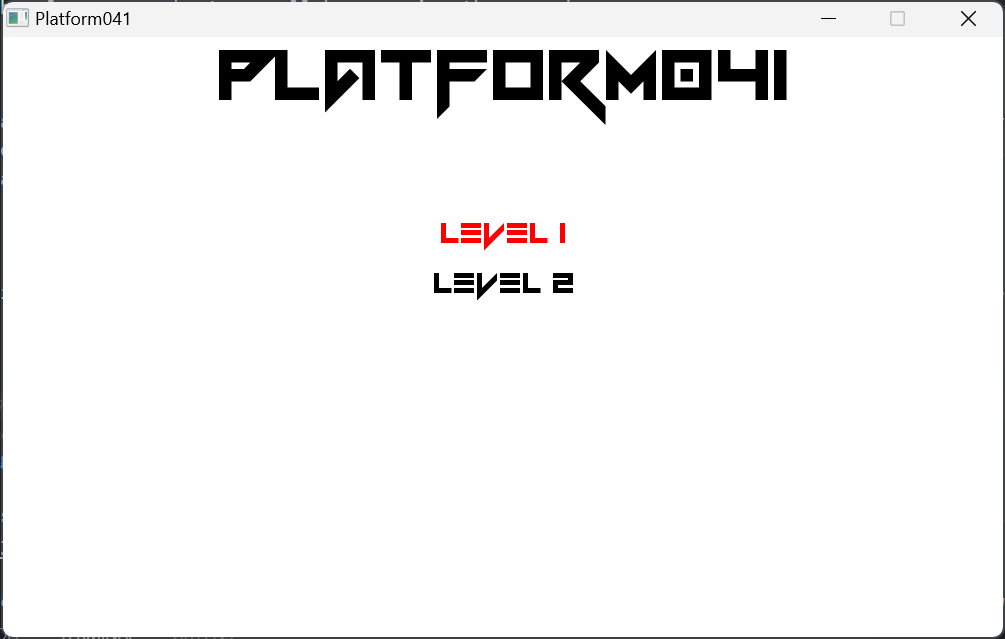
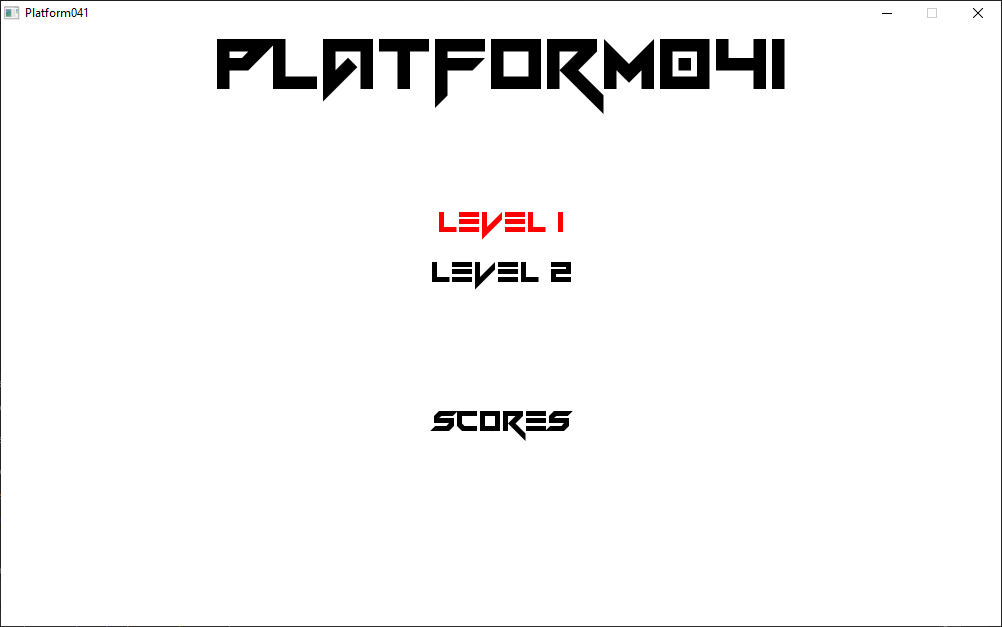
changed docs

diff --git a/src/Level.cpp b/src/Level.cpp
@@ -1,12 +1,12 @@
 #include "../headers/Level.hpp"
 
 void Level::die(sf::RenderWindow &window) {
-    score = 0;
-
     window.setView(sf::View(sf::Vector2f(0, Constants::get_window_height() / 2.0), sf::Vector2f(Constants::get_window_width(), Constants::get_window_height())));
 
     std::string displayText = "You lost! Score: " + std::to_string(score) + ", Time (s): " + std::to_string(levelClock.getElapsedTime().asSeconds());
     sf::Text text = createText(window, displayText, 50, 0, 300, sf::Color(210, 0, 0));
+
+    score = 0;
 
     sf::Clock clock;
 

diff --git a/docs/README.md b/docs/README.md
@@ -2,7 +2,7 @@
 
 ## User documentation
 
-At first, the user either has to build the app themselves or download the prebuilt executable. After that (see the source root README for build, if needed), the game is ready for playing. After running the executable, a window shows up. The game starts in a main menu. The user may choose from the available levels by using the arrow keys and spacebar/return key for selecting.
+At first, the user either has to build the app themselves or download the prebuilt executable. After that (see the source root README for build, if needed), the game is ready for playing. After running the executable, a window shows up. The game starts in a main menu. The user may choose from the available levels by using the arrow keys and spacebar/return key for selecting. The user may select the scores tab as well, which shows the top scores.
 
 <img src="images/menu.png" />
 
@@ -10,13 +10,17 @@ After selecting the level, menu disappears and the level starts. The user contro
 
 <img src="images/level1_start.png" />
 
-The goal of each level is to get to the finish area (in current version marked by the cyan color) by avoiding enemies and killing obstacles (red ones). It is possible, but not required to kill the enemies. It is also possible to collect the level's collectibles for better score. Each level has a timer which gets started the second the player chooses a level from the main menu. By pressing the escape key, the user may return back to the menu.
+The goal of each level is to get to the finish area (in current version marked by the cyan color) by avoiding enemies and killing obstacles (red ones). It is possible, but not required to kill the enemies. It is also possible to collect the level's collectibles for better score. Each level has a timer which gets started the second the player chooses a level from the main menu. By pressing the escape key, the user may return back to the menu. When the player dies, they are returned to the main menu as well.
 
 <img src="images/level1_end.png" />
 
 After completing the level, a final screen is shown with the player's score and time. After a few seconds, the player automatically returns back to the main menu.
 
 <img src="images/level1_score.png" />
+
+The user may also view their stats when selecting the Scores tab in the main menu. The final result is sorted by the top scores achieved. The user has to press either Escape, Space or Enter key to get back to the main menu.
+
+<img src="images/scores.png" />
 
 ## Programming documentation
 
@@ -57,11 +61,21 @@ This JSON object creates a walkable enemy with the gravity of 800 and speed of 1
 
 There are more types which may be parsed by the program such as "finish", "coin" or "killzone". For explicit parameters of those types refer to the `Level` class. This format allows us to add new types of obstacles/enemies pretty easily. The only requirement is to add the required methods for parsing the JSON data to the `Level` class and make sure that everything is drawn to the screen properly. The parsing methods create instances of the corresponding classes such as `ClassicWall`, `Finish`, `Enemy` etc.
 
+When the player wins the game, the file `res/scores.json` is updated with the winning data. The JSON is an array containing objects that look like this:
+```json
+{
+    "level": "level1",
+    "score": "2",
+    "time": "20.130440"
+}
+```
+
+The `Scores` class contains the logic for viewing the top scores. Currently, the class loads the saved scores from `res/scores.json`. Then, the class sorts the data by `score` attribute and shows them on the screen.
+
 The last class to mention is the `Player` class. It contains needed methods for detecting various collisions. The `Enemy` class is similar to this one.
 
 There are some extensions which could be added to the game:
 - Overall game statistics
-- Level statistics
 - More levels
 - More enemies (shooting ones, standing ones etc.)
 - More guns, collectibles
